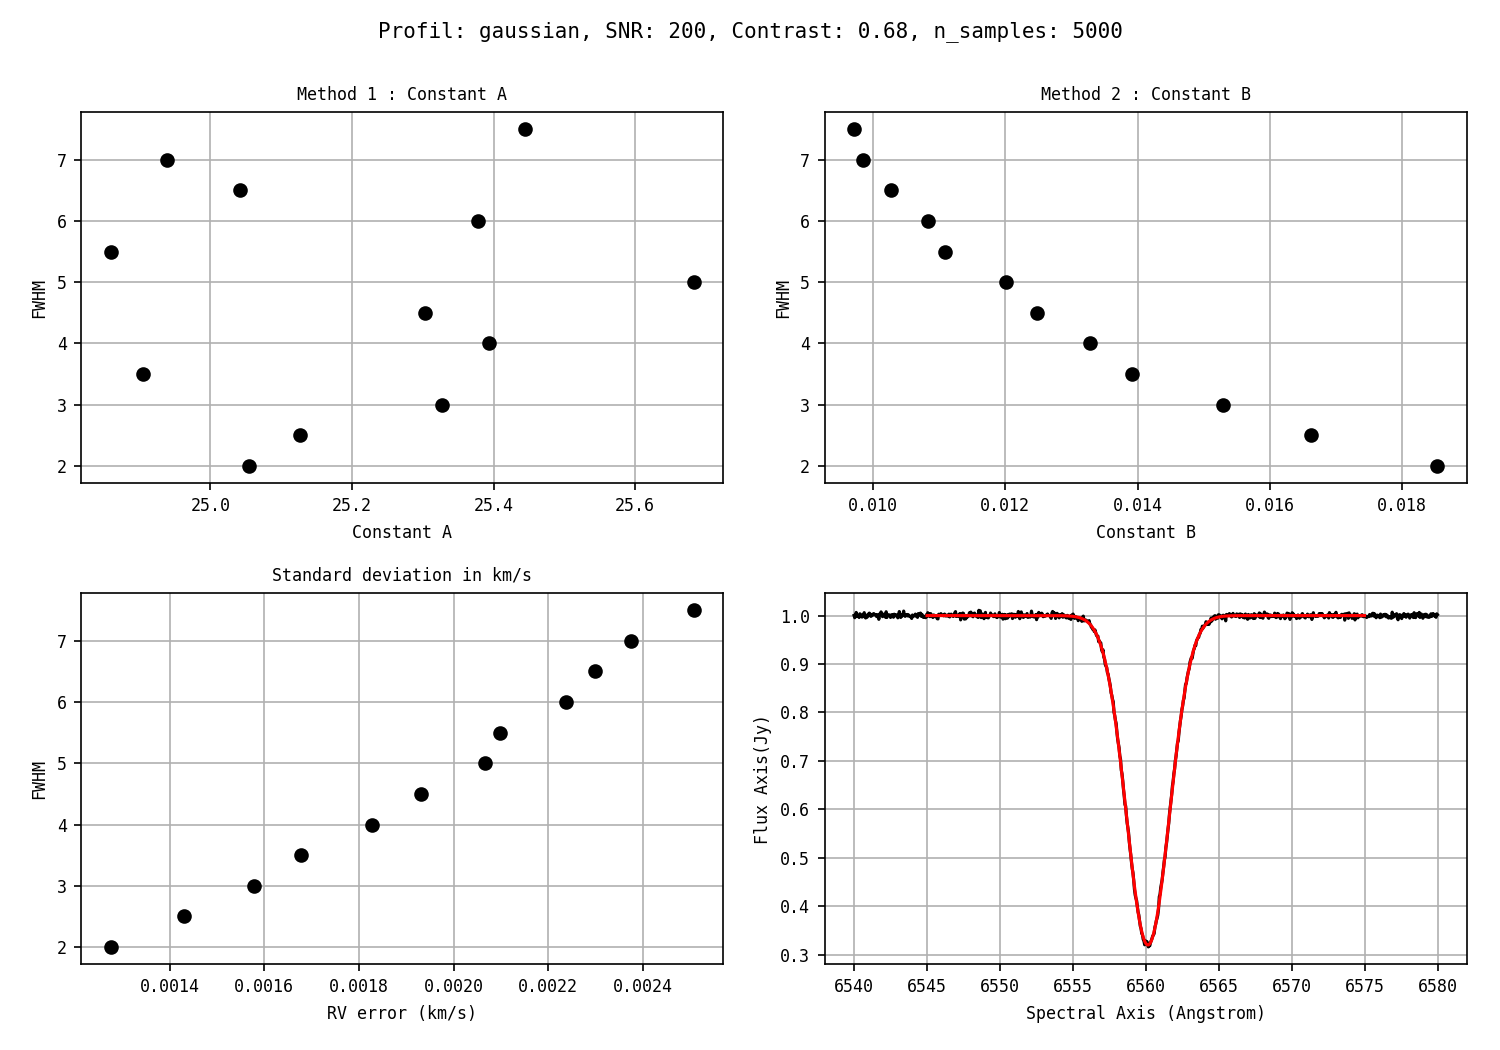
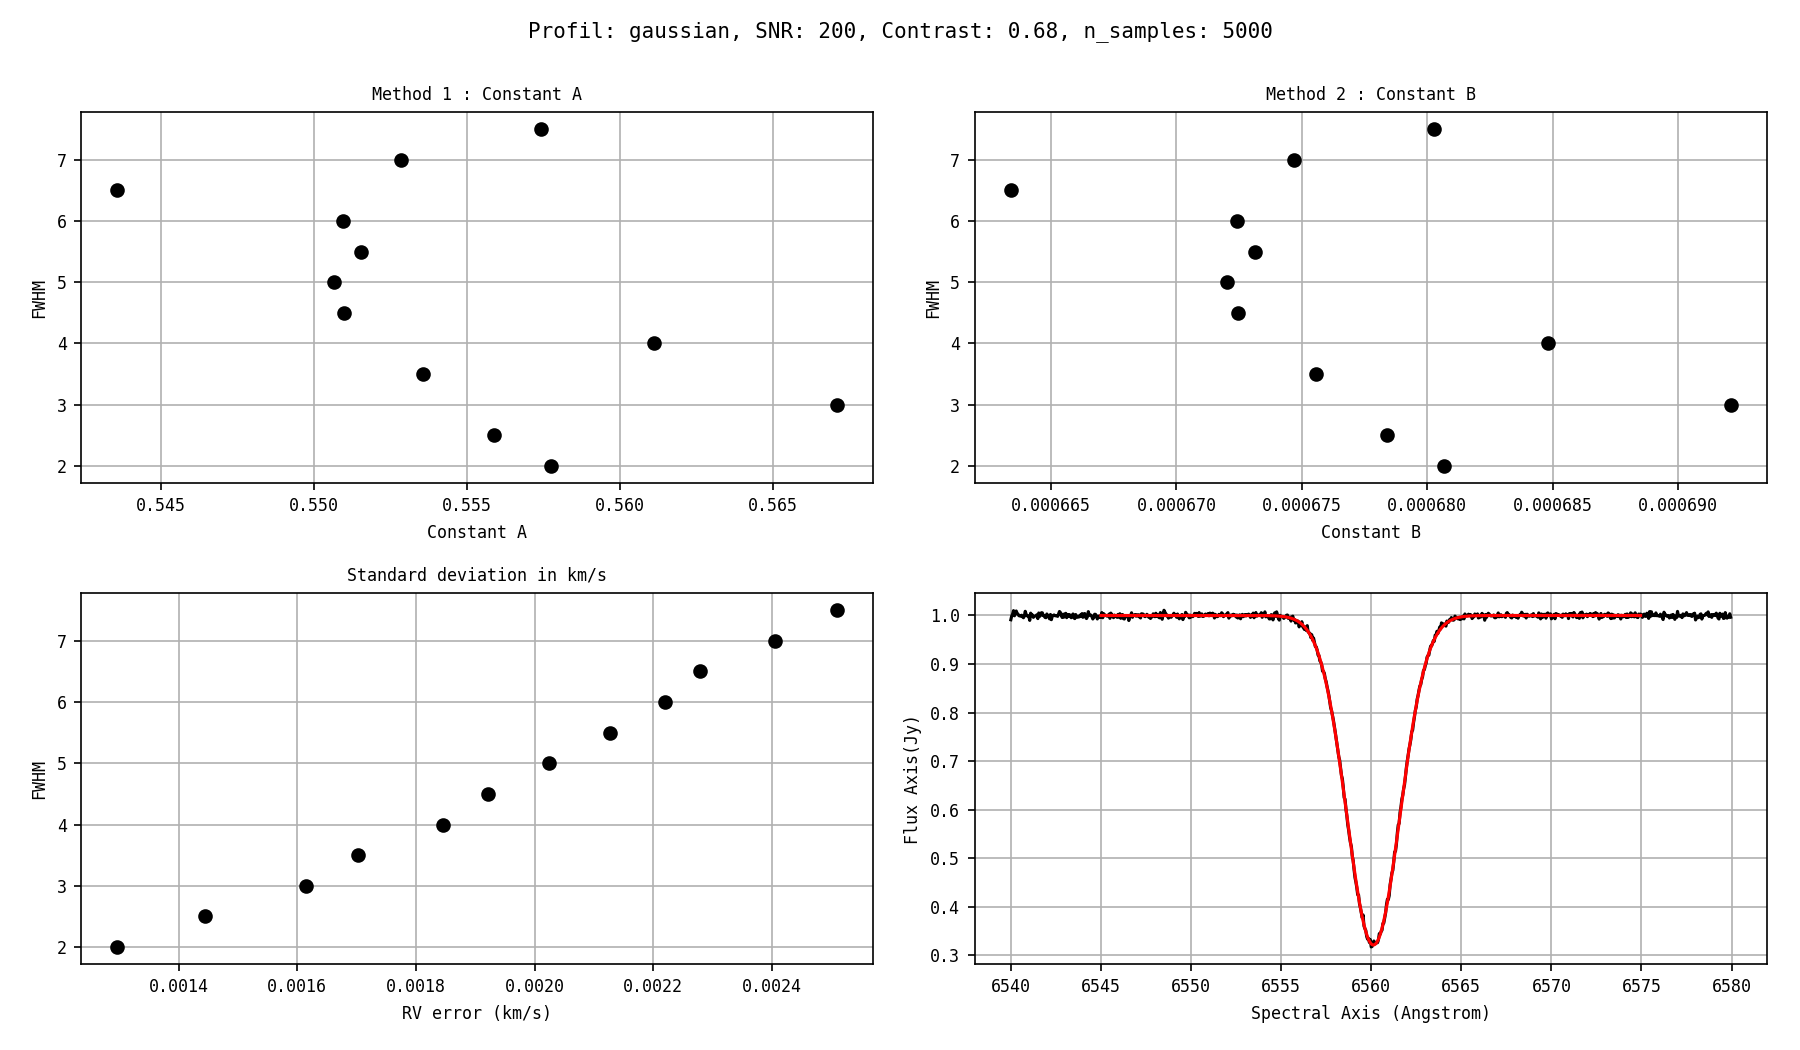
fix errors

diff --git a/sandbox/rv_error.py b/sandbox/rv_error.py
@@ -23,11 +23,11 @@ def computeConstA_Method1(rv, fwhm, snr, contrast, n):
     return rv / (fwhm / (contrast * snr * np.sqrt(n)))
 
 
-def computeConstB_Method2(rv, fwhm, snr, contrast, center):
+def computeConstB_Method2(rv, fwhm, p, snr, contrast, center):
     """
     return a constant for a given radial velocity error in km.s-1 (BOUCHY)
     """
-    return rv / ((np.sqrt(fwhm) * np.sqrt((fwhm/center)*const.c)) / (contrast * snr))
+    return rv / ((np.sqrt(fwhm) * np.sqrt(p)) / (contrast * snr))
 
 
 def findCenterOfLine(spectrum1d, fwhm, model_type='gaussian'):
@@ -114,15 +114,21 @@ def run(model, n_samples, snr):
     contrast = .68
     center = 6560.123
     fwhm = np.arange(2, 8, .5)
-    fig, ((ax1, ax2), (ax3, ax4)) = plt.subplots(2, 2, figsize=(10, 7))
+    fig, ((ax1, ax2), (ax3, ax4)) = plt.subplots(2, 2, figsize=(12, 7))
     aa, bb = [], []
     for i in range(len(fwhm)):
+        # run monteCarlo
         std = runMonteCarlo(
             n_samples, contrast, snr, center, fwhm[i], model=model, ax=ax4, first=i == 1)
+
+        # compute A constant with first method
         a = computeConstA_Method1(
-            getRV(std), fwhm[i], snr, contrast, fwhm[i]/.05)
+            getRV(std), getRV(fwhm[i]), snr, contrast, fwhm[i]/.05)
+
+        # compure B constant with second method
         b = computeConstB_Method2(
-            getRV(std), fwhm[i], snr, contrast, center)
+            getRV(std), getRV(fwhm[i]), snr, getRV(.05), contrast, center)
+
         print(f'rms : {std}  a : {a}  b : {b}')
         ax1.plot(a, fwhm[i], "ko")
         ax2.plot(b, fwhm[i], "ko")
